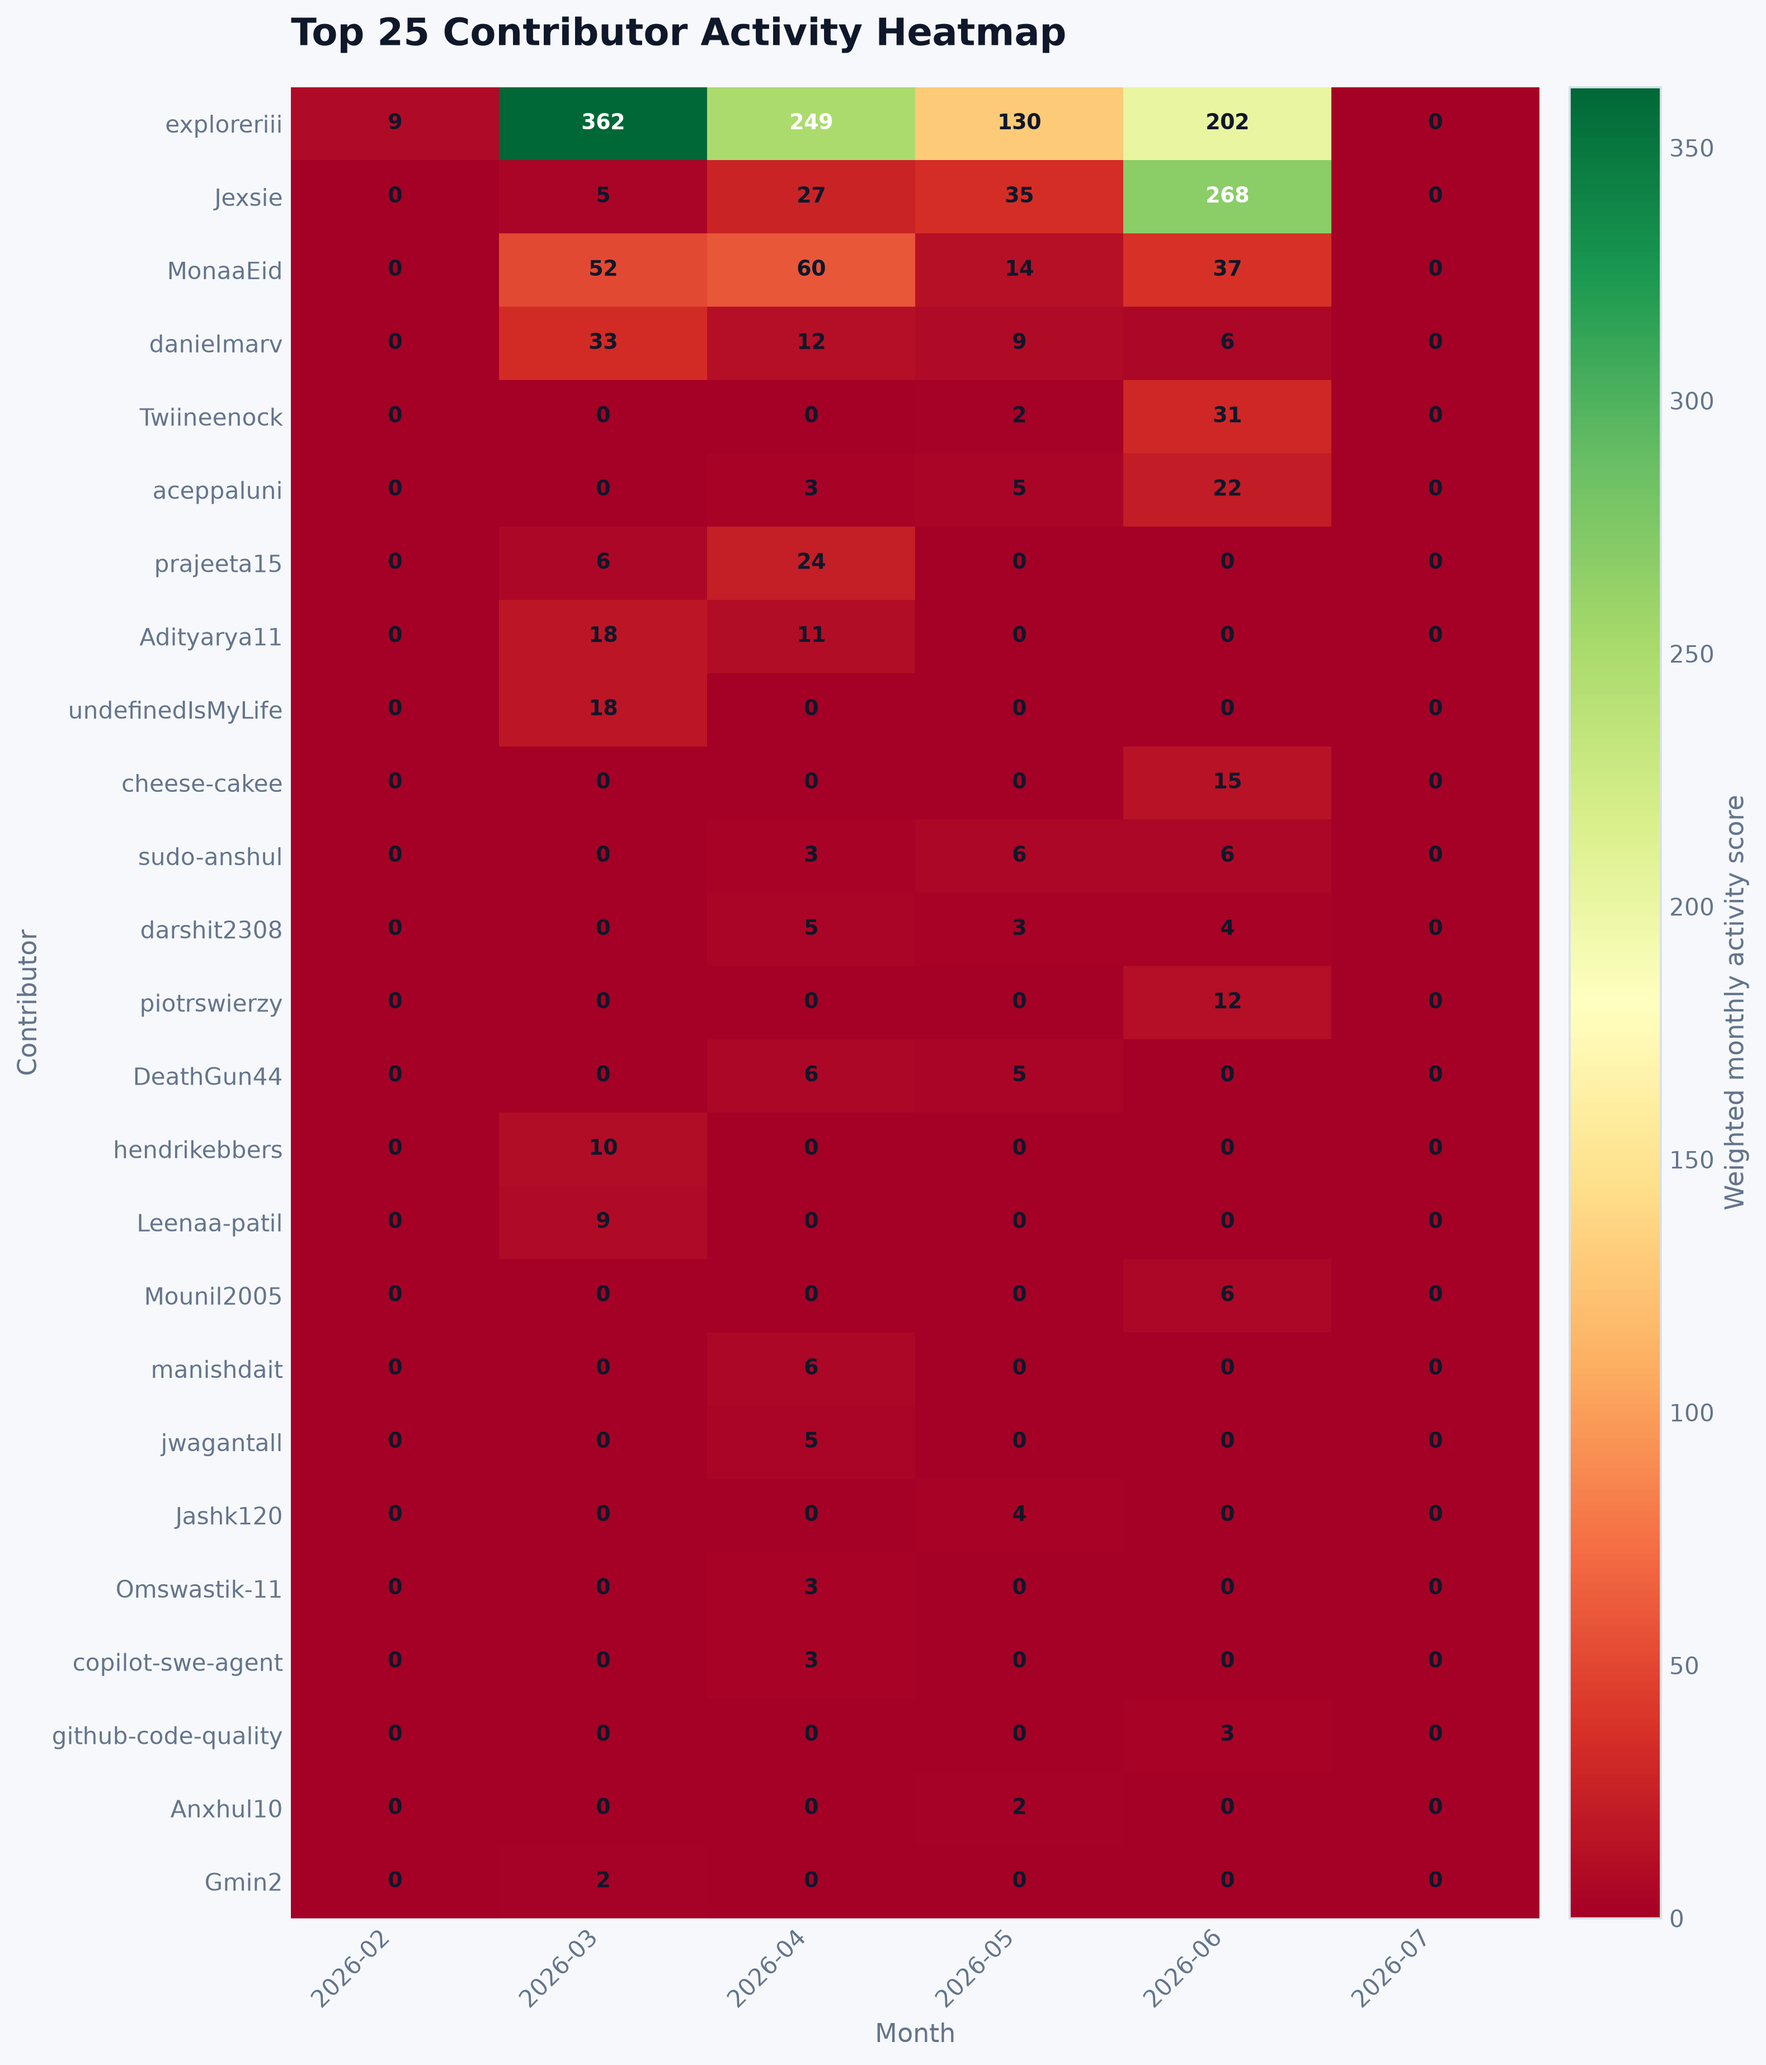
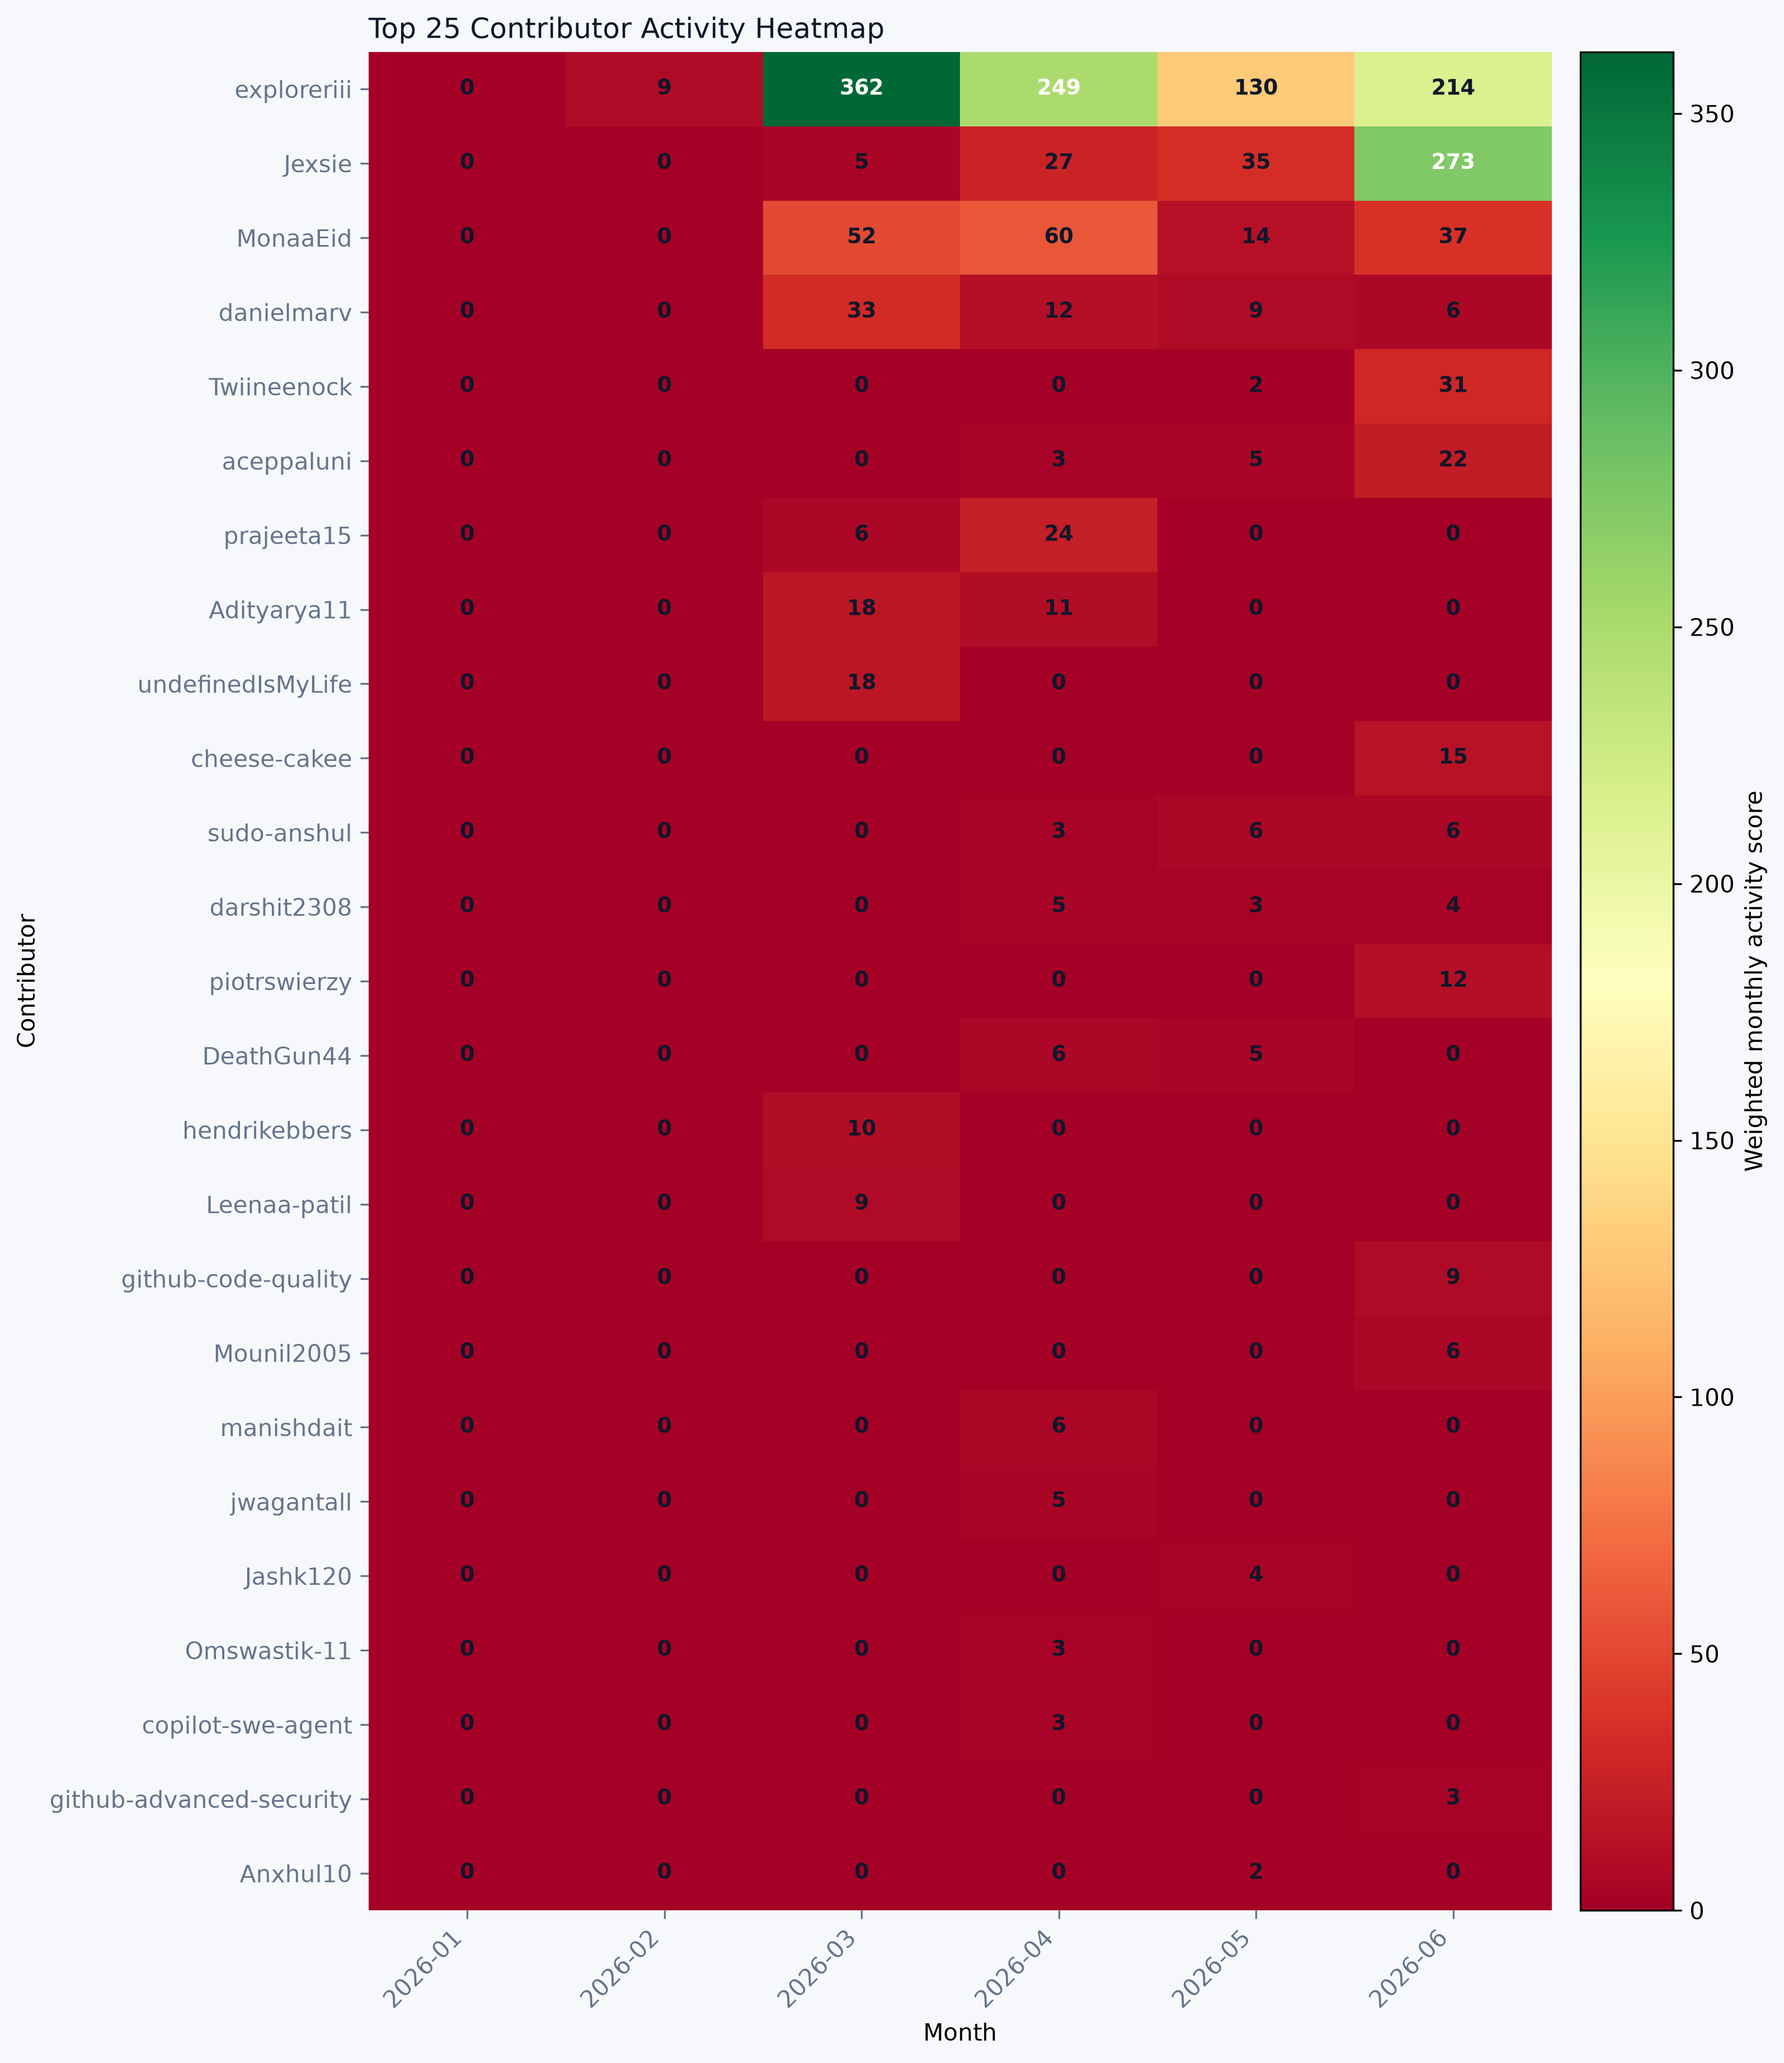
fix: adjust month range in contributor heatmap to exclude current month

diff --git a/tests/analysis/test_contributor_heatmap.py b/tests/analysis/test_contributor_heatmap.py
@@ -2,8 +2,6 @@
 
 from __future__ import annotations
 
-from datetime import UTC, datetime
-
 import pandas as pd
 
 from hiero_analytics.analysis.contributor_heatmap import (
@@ -20,11 +18,14 @@ from hiero_analytics.data_sources.models import ContributorActivityRecord
 def _ev(actor: str, activity_type: str, n: int, *, repo: str = "o/x") -> ContributorActivityRecord:
     """Build a contributor-activity record dated to now (inside the heatmap window)."""
     target_type = "issue" if activity_type == "authored_issue" else "pull_request"
+
+    last_month_timestamp = pd.Timestamp.now(tz="UTC") - pd.DateOffset(months=1)
+
     return ContributorActivityRecord(
         repo=repo,
         activity_type=activity_type,
         actor=actor,
-        occurred_at=datetime.now(UTC),
+        occurred_at=last_month_timestamp.to_pydatetime(),
         target_type=target_type,
         target_number=n,
     )

diff --git a/src/hiero_analytics/analysis/contributor_heatmap.py b/src/hiero_analytics/analysis/contributor_heatmap.py
@@ -53,7 +53,10 @@ def _month_key(value: datetime) -> str:
 def _recent_month_keys(months_back: int) -> list[str]:
     """Return the most recent month labels, oldest first."""
     current_month = pd.Period(pd.Timestamp.now(tz="UTC"), freq="M")
-    return [str(period) for period in pd.period_range(end=current_month, periods=months_back, freq="M")]
+    # Shift back by 1 month so the range ends on the last fully completed month
+    last_completed_month = current_month - 1
+
+    return [str(period) for period in pd.period_range(end=last_completed_month, periods=months_back, freq="M")]
 
 
 def _activity_action(activity_type: str) -> str | None:
